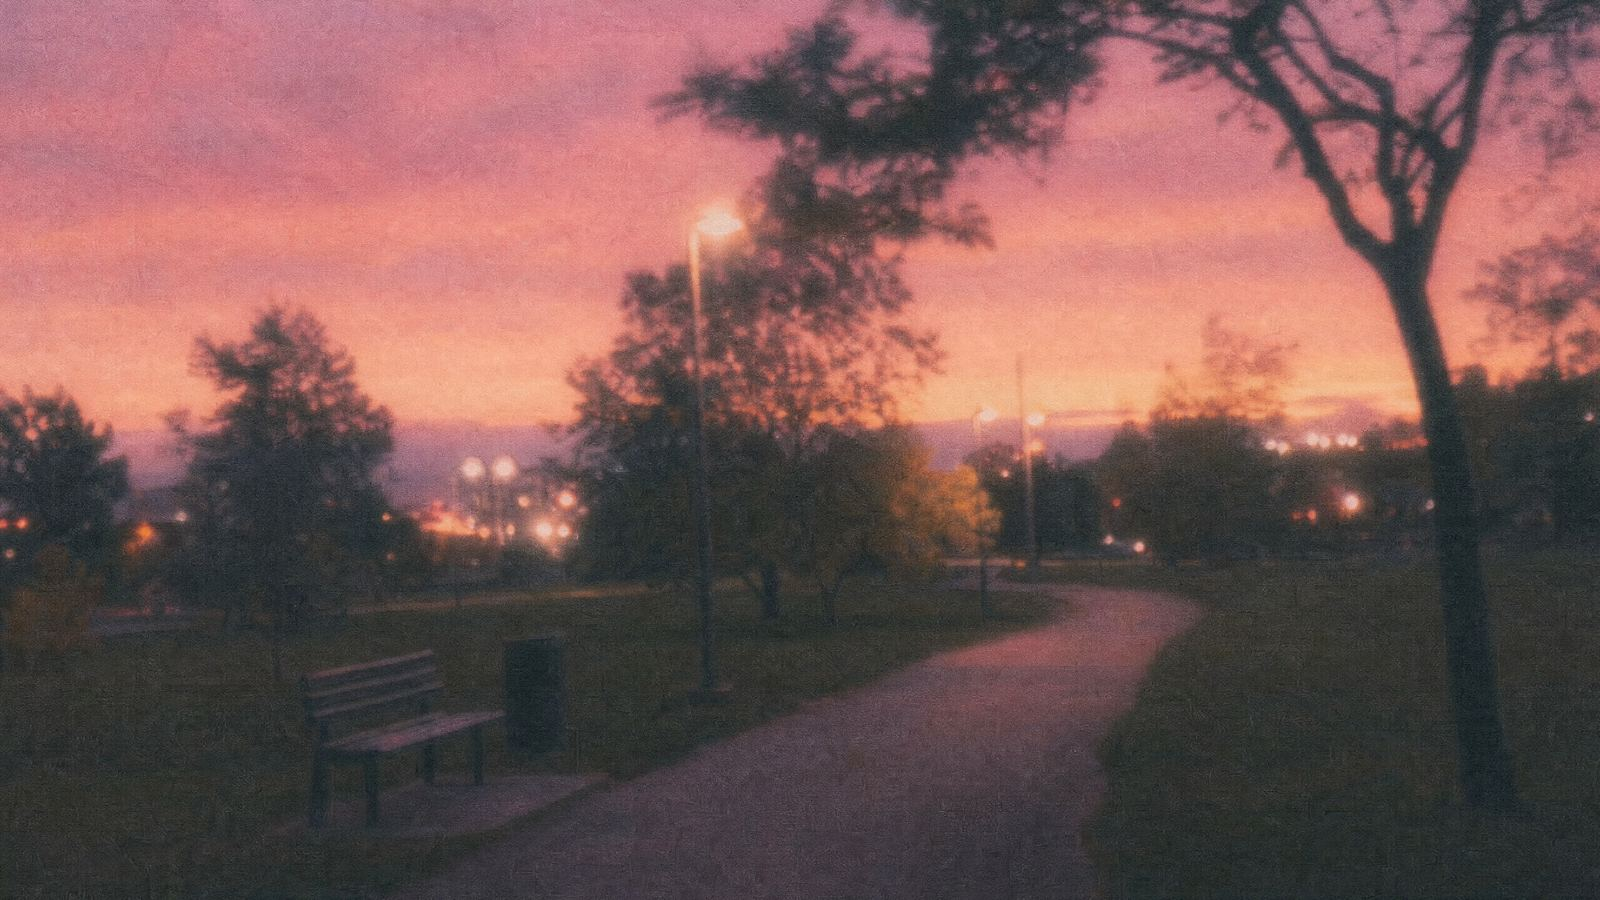
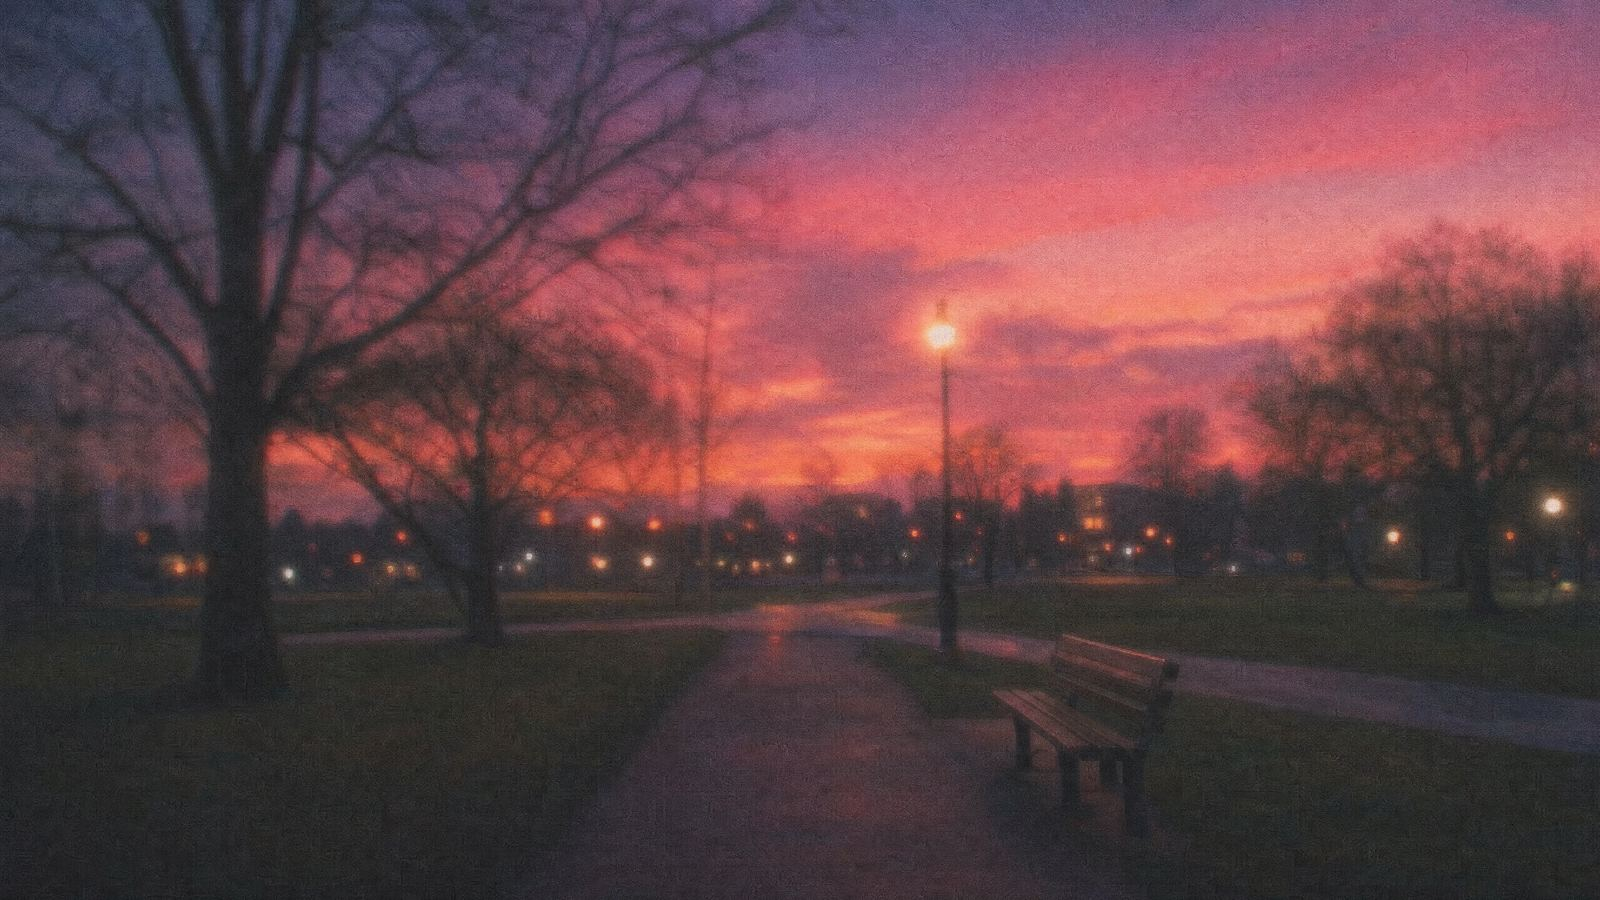
updated viewprot size for about page to 60%

diff --git a/src/components/About.tsx b/src/components/About.tsx
@@ -12,7 +12,7 @@ const metaRows = [
 
 export default function About() {
   return (
-    <section id="about" className="relative border-t border-cream/6 min-h-screen flex items-center isolate">
+    <section id="about" className="relative border-t border-cream/6 min-h-[60vh] flex items-center isolate">
       <div className="photo-section-bg" aria-hidden="true">
         <img
           src="/sunset-bench.jpg"
